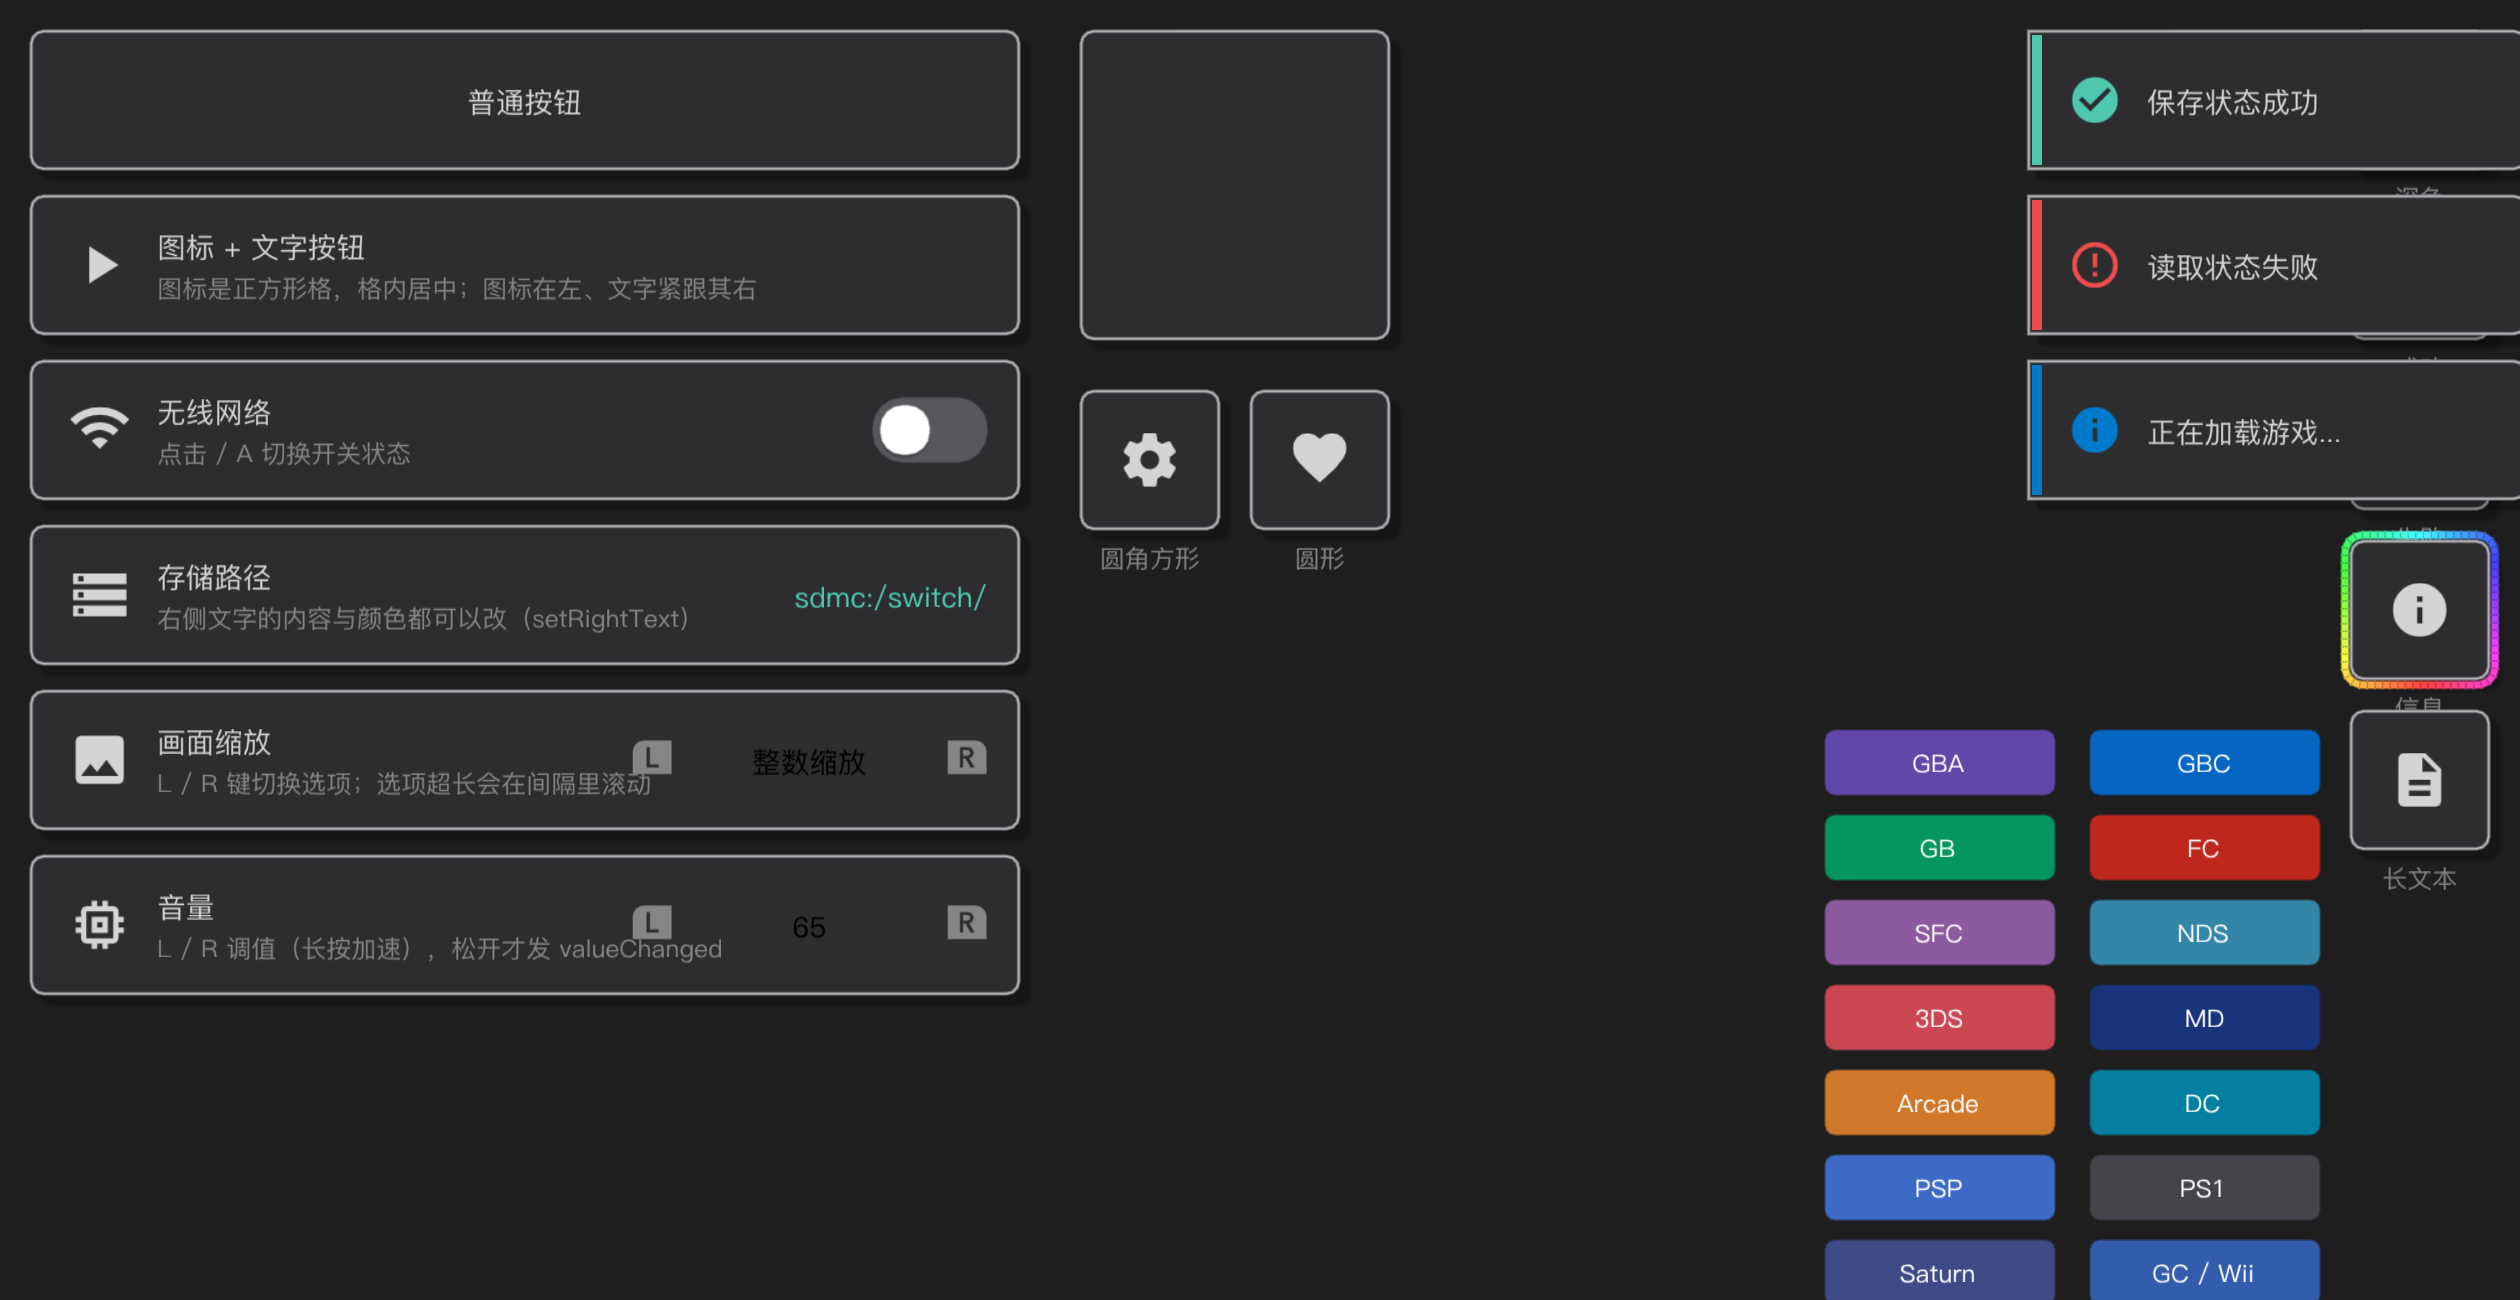
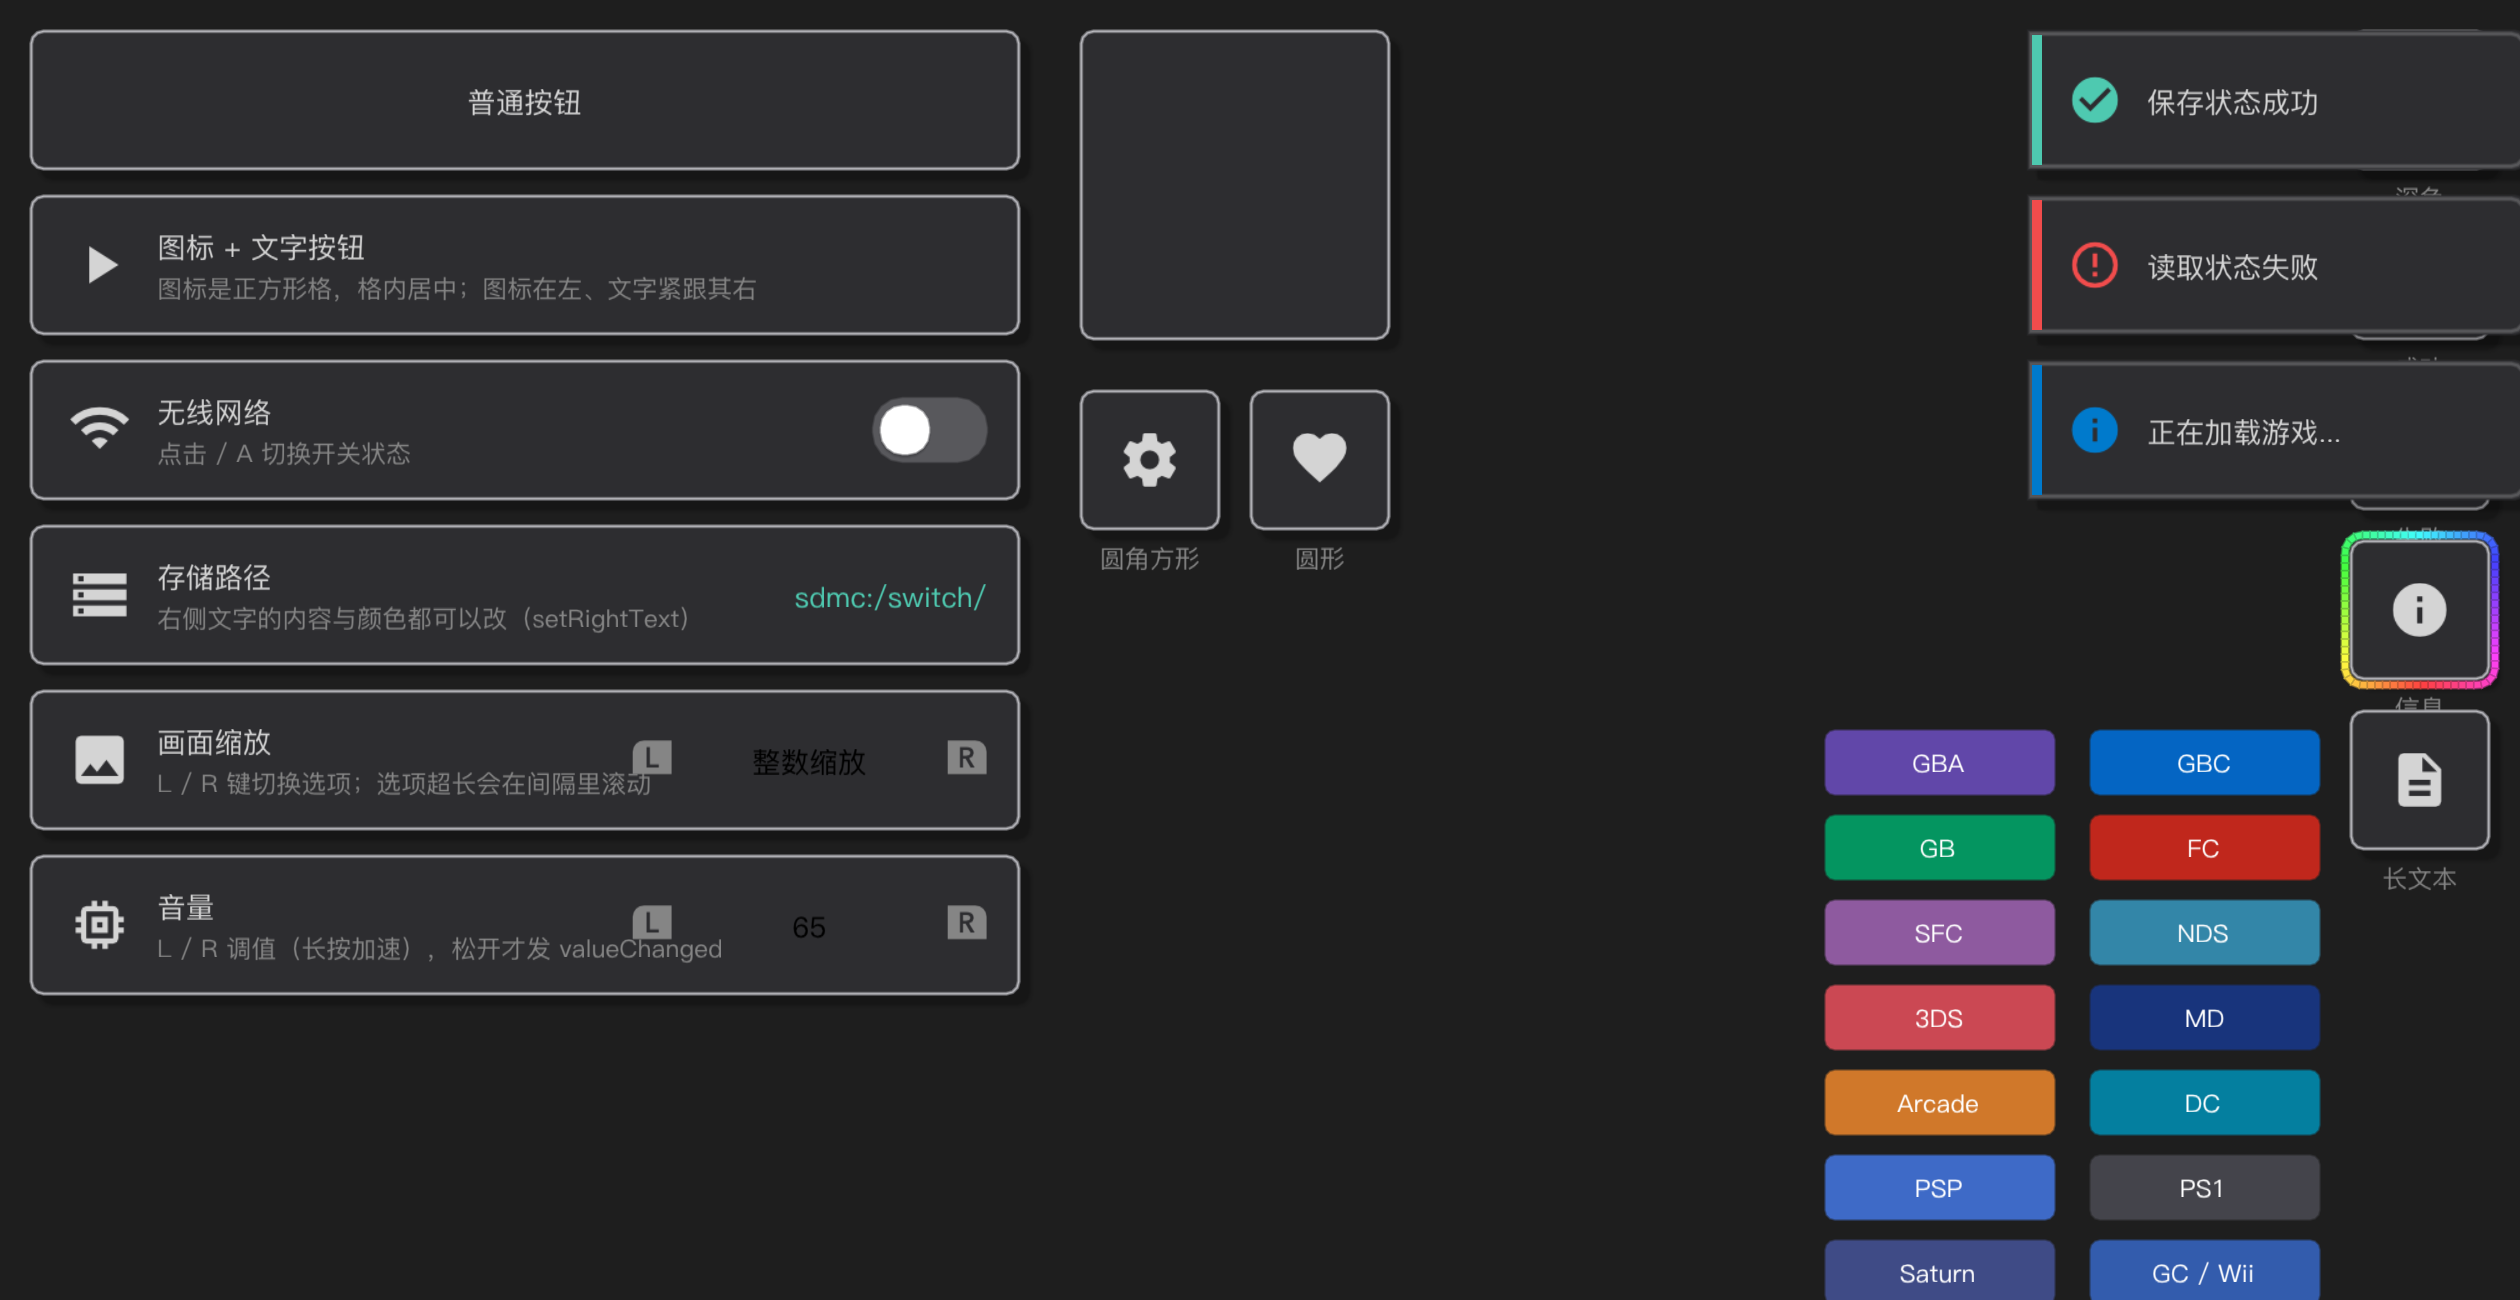
Toast 的边框照 GBAStation（borealis 通知）：1.5px rgba(255,255,255,50) 内侧描边
只改边框，其余视觉不动：Toast 的底色 / 圆角 / 阴影 / 字体 / 内边距仍走 Global::component_style
（和 Button 同一套 Draw::ComponentBox），状态色条、Material 图标、尺寸、位置、时长都保持原样。

- ToastStyle 新增 border_width = 1.5 / border_inset = 1 / border_color = rgba(255,255,255,50)，
  取自 borealis Notification::draw（nvgStrokeColor(RGBA(255,255,255,50)) + nvgStrokeWidth(1.5f)，
  画在 inset 1 的位置）。
- Toast.cpp 在 ComponentBoxVisual() 之后覆盖这三项（颜色/粗细/内缩），圆角与底色不变。

验证（深色主题抓帧）：卡片 (45,45,48)、页面 (30,30,30)，边框线在 y=42/x=820 读到 (84,84,87)
= 白@50(0.196) 叠在卡片上的理论值 (86,86,88)；换之前是组件旧边框（opaque 190 灰白，实测 ~175 的 AA 线），
说明描边确实换成了 borealis 那套。浅色主题下是一条更细的浅色描边。
mac Debug/Release + Switch 均编译通过；ctest 全绿；6 个 demo 退出码 0；快照已更新。

diff --git a/component_view/Toast.h b/component_view/Toast.h
@@ -1,8 +1,12 @@
 // Toast：通用通知（右上角滑入 → 停留 3s → 滑出，多 Toast 队列 + 自动补位）。
 //
-// 视觉上就是「一个从右边滑进来的 Button Box」：底色 / 圆角 / 边框 / 阴影 / 字体 / 内边距
+// 视觉上就是「一个从右边滑进来的 Button Box」：底色 / 圆角 / 阴影 / 字体 / 内边距
 // 全部走 Global::component_style（和 Button 同一个来源，共用 Draw::ComponentBox 这套画法），
 // Toast 只额外画左侧状态色条 + Material 图标 + 文本 —— 没有第二套 Box 样式。
+//
+// 边框（描边）单独照 GBAStation 用的 borealis 通知：1.5px 的 rgba(255,255,255,50) 内侧描边
+// （borealis Notification::draw 里 nvgStrokeColor(RGBA(255,255,255,50)) + nvgStrokeWidth(1.5f)，
+//  画在 inset 1 的位置），比原来的 1px 灰白边框更细更亮，像一层高光。
 //
 // 业务代码只调 ShowSuccess / ShowError / ShowInfo，不关心坐标、动画、生命周期、排列。
 //
@@ -44,6 +48,10 @@ struct ToastStyle {
     float min_height = Theme::kControlHeight; // 和按钮/行高一致（56）
     float bar_width = 4.0f;     // 左侧状态色条宽度
     float bar_inset = 2.0f;     // 色条离边框的留白（左/上/下都是它）
+    // 边框：照 borealis 通知（其余 Box 视觉仍走 Global::component_style）
+    float border_width = 1.5f;
+    float border_inset = 1.0f;
+    ImVec4 border_color = Theme::rgba(255, 255, 255, 50);
     float icon_size = 22.0f;    // Material 图标字号
     float gap = 10.0f;          // 色条 ↔ 图标 ↔ 文本 的间距
     float padding_x = 16.0f;    // 色条之外的内容左右留白

diff --git a/component_view/Toast.cpp b/component_view/Toast.cpp
@@ -173,10 +173,14 @@ void ToastManager::Draw(ImDrawList* dl) {
         const float left = offscreen_x + (parked_x - offscreen_x) * toast.slide;
         const Rect box = Rect::FromPosSize(ImVec2(left, toast.current_y), ImVec2(toast.width, toast.height));
 
-        // 1) 和 Button 一模一样的框（同一套 Global::component_style + Draw::ComponentBox）
-        //    左侧两个角按需求做成直角，右侧保持 Button 的圆角
+        // 1) 和 Button 一模一样的框（同一套 Global::component_style + Draw::ComponentBox）：
+        //    左侧两个角按需求做成直角，右侧保持 Button 的圆角；
+        //    边框换成 borealis 通知那套（1.5px rgba(255,255,255,50) 内侧描边，inset 1）
         BoxVisual visual = Global::ComponentBoxVisual();
         visual.background = Theme::U32(Theme::kBgWidget);
+        visual.border.width = style_.border_width;
+        visual.border.inset = style_.border_inset;
+        visual.border.color = Theme::U32(style_.border_color);
         visual.tl = 0.0f;
         visual.bl = 0.0f;
         Draw::ComponentBox(dl, box, visual);

diff --git a/README.md b/README.md
@@ -201,6 +201,55 @@ ui.UiZoom();                                  // 当前倍率
 > 不是组件库的代码。Switch 端的运行期缩放也可能踩到同类问题，所以统一改成启动时设定，
 > 界面上不再提供运行期缩放按钮。要在设备上运行期缩放的话，需要换真实 SDL2 或自己实现缩放几何的渲染路径。
 
+### Toast 通知
+
+业务代码只碰这几个函数，坐标 / 动画 / 生命周期 / 排列 / 图标 / 颜色都在 `ToastManager` 里：
+
+```cpp
+Toasts().ShowSuccess("保存状态成功");   // Page 里的入口
+Toasts().ShowError("读取状态失败");
+Toasts().ShowInfo("正在加载游戏...");
+Toasts().Show(ToastType::Info, "任意文案");
+```
+
+视觉上就是「一个从右边滑进来的 Button Box」：底色 / 圆角 / 阴影 / 字体 / 内边距**全部复用**
+`Global::component_style`（和 Button 走同一个画法函数 `Draw::ComponentBox()`），
+Toast 只额外画左侧状态色条 + Material 图标 + 文本。
+
+**边框照 GBAStation 用的 borealis 通知**（`borealis/.../notification_manager.cpp` 的 `Notification::draw`）：
+1.5px 的 `rgba(255,255,255,50)` **内侧描边**（画在 inset 1 的位置，`ToastStyle::border_width /
+border_inset / border_color` 可改），比原来的 1px 灰白边框更细、像一层高光；深色主题下最明显。
+
+| 项 | 值（`ToastStyle`，可改） |
+|---|---|
+| 边框 | 1.5px `rgba(255,255,255,50)`、inset 1（照 borealis） |
+| 底色 / 圆角 / 阴影 | 走 `Global::component_style`（和 Button 同一套） |
+| 左侧状态色条 | 直角长条，左/上/下离边框 2px；Success 绿 / Error 红 / Info 蓝（颜色只用于色条和图标） |
+| 图标 | Material `check_circle` / `error_outline` / `info`，22px |
+| 尺寸 | 宽 200~320 自适应、最小高 `kControlHeight`(56)，长文本自动换行并按行数增高 |
+| 位置 | 右上角：顶部 20、右边 5、多个 Toast 间距 10 |
+| 时长 | 入场 0.25s（EaseOutCubic）→ 停留 **3s**（从入场完成开始算）→ 出场 0.25s → 删除 |
+
+关键机制（也是没有「删除元素后坐标错乱」的原因）：
+
+```text
+X 轴：Entering 时 slide 0 → 1（EaseOutCubic）；Exiting 时 1 → 0（exponentialIn 风格）并 alpha = slide 淡出
+Y 轴：每帧 targetY = 上一条的 y + 上一条的 height + spacing；
+      currentY = SmoothTo(currentY, targetY, reflow_speed, dt)
+```
+
+两个轴完全独立，所以「A 正在向右退出 / B、C 正在向上补位 / D 正在从右边进入」可以同时发生；
+顶部 Toast 消失后，后面的自动向上补位 —— 不需要 Toast 之间互相知道坐标。
+
+- 去重：**默认关闭**（`dedup_window = 0`，每次 Show 都建一条）；设成 >0 时同类型 + 同文案在该窗口内
+  只刷新停留时间、不新建（正在退出的会被拉回来重新滑入）。
+- 不接管输入：Toast 不在 Widget 树里，不参与命中测试 / 焦点导航 / 手柄分发（`Page::Update` 里只推进动画）。
+- 绘制层级：`Page::Render` 里画在页面内容与 overlay **之后**，而 `Global::draw_list` 是 ImGui 前景 draw list → 高于所有 ImGui 窗口。
+- 线程：Toast 是 UI 层服务，`Show*` / `Update` / `Draw` 都在 UI 线程（本项目 UI 单线程）。以后真有后台线程要发通知，
+  再在 `Show*` 前面挂一个线程安全队列由 UI 线程排空即可。
+
+demo 的右侧控制列加了四个触发按钮（成功 / 失败 / 信息 / 长文本），长文本那条用来验证换行和后续补位。
+
 ### 主题：浅色 / 深色（运行时整套切换）
 
 调色板里的「角色色」都是运行时可变的变量，`Theme::SetMode()` 会把整套颜色换掉：
@@ -805,7 +854,13 @@ git -C third_party/imgui fetch --tags     # 升级 imgui 用
   关掉说明行后主文字就停在偏上 8px 的位置；现在按文字块自己的高度居中。
   实测（说明行关）：无线网络主文字墨迹中心 169.5 / 存储路径 231.5 vs 按钮中心 170 / 232；
   普通按钮（无说明行）主文字墨迹中心 y=45.5、x=217 vs 按钮中心 (46, 218)。
-- 已确认（尺寸统一，参考 GBAStation SettingPage）：`component_view/Theme.h` 的字号/控件高改成
+- 已确认（Toast 边框照 borealis 通知）：按 `borealis/.../notification_manager.cpp` 的
+  `Notification::draw`，把 Toast 的描边换成 **1.5px `rgba(255,255,255,50)` 内侧描边（inset 1）**
+  （`ToastStyle::border_width / border_inset / border_color`）。其余视觉不变：底色 / 圆角 / 阴影仍走
+  `Global::component_style`，状态色条、图标、尺寸、位置、时长都保持原样。
+  抓帧核对：深色主题下卡片左边缘出现一条亮线（实测 (175,175,180)，卡片 (45,45,48)、页面 (30,30,30)），
+  上边缘 y=20 是 (145,145,149)、y=22 回到卡片色 → 1.5px 内侧高光；浅色主题下是一条更细的浅色描边。
+- - 已确认（尺寸统一，参考 GBAStation SettingPage）：`component_view/Theme.h` 的字号/控件高改成
   参考 SettingPage 的一套值（标题 22 / 区块 20 / 正文 16 / 说明 14 / 极小 12、控件高 **56**、
   标签高 26、内容留白 12），组件与 demo 全部改引用常量：Button 默认字号 = kFontBody、
   subtitle = kFontSmall、最小高 = kControlHeight；Badge 字号 = kFontSmall、高 = kBadgeHeight；
